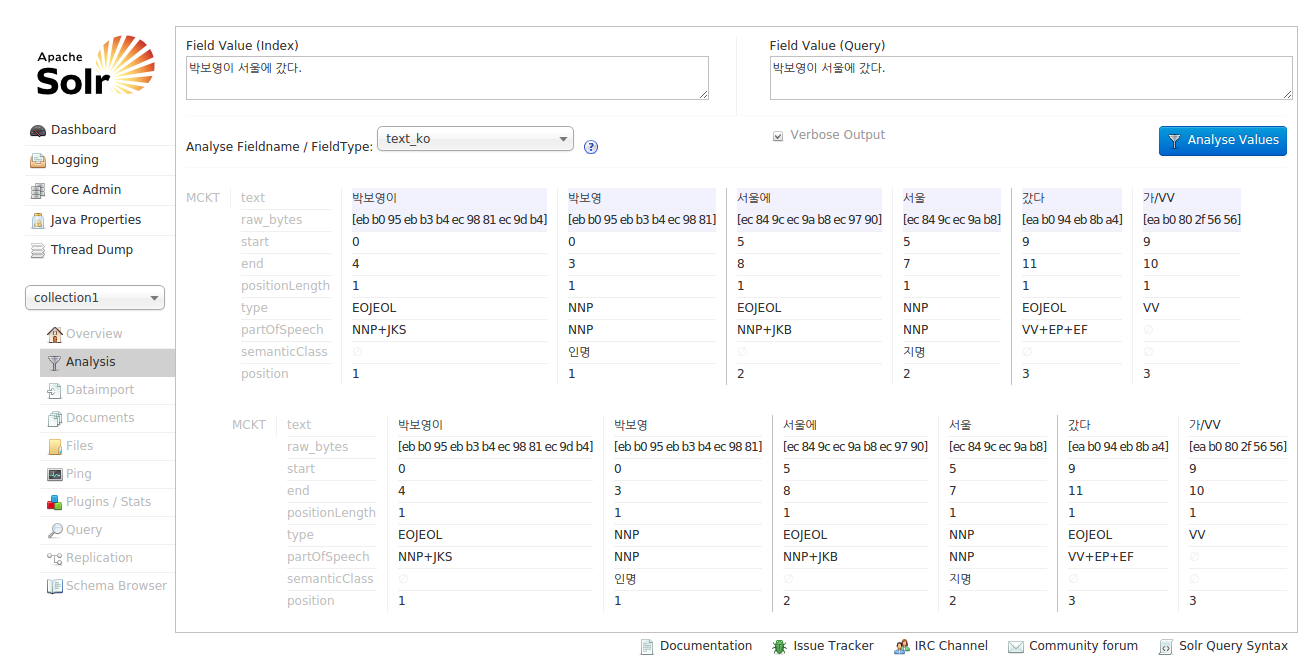
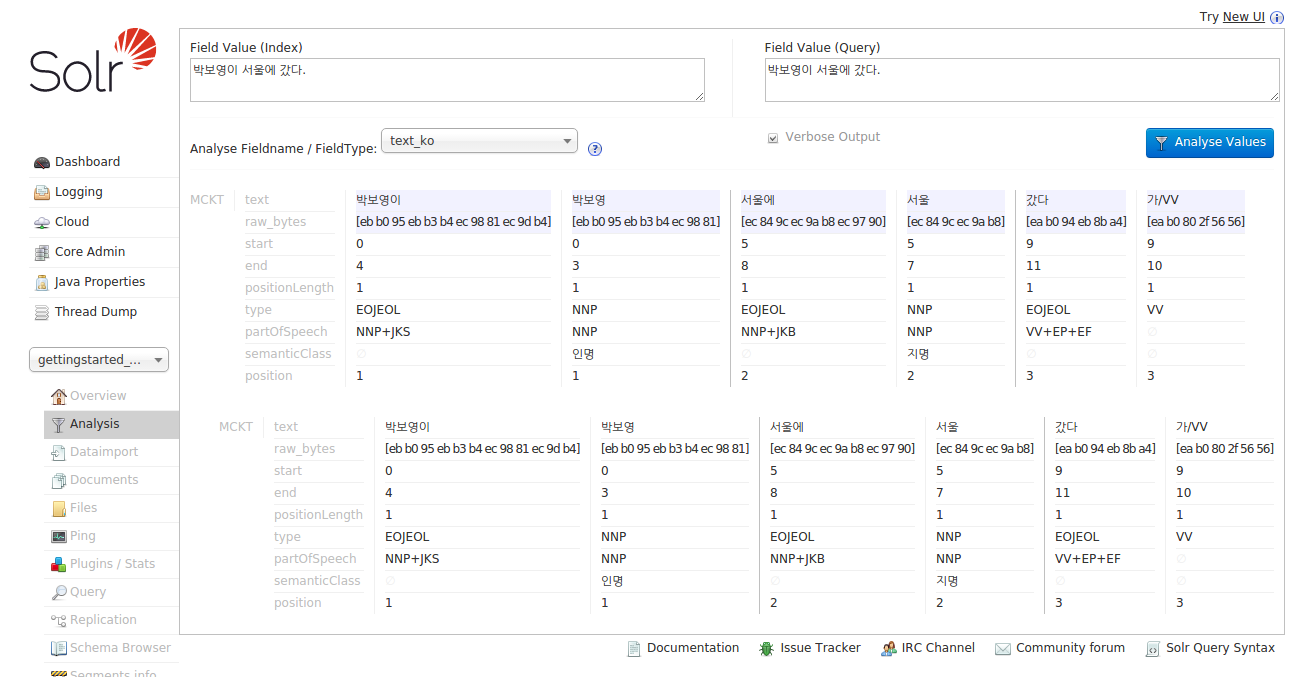
README.md solr-5.3.1에 맞게 수정

diff --git a/README.md b/README.md
@@ -24,7 +24,7 @@
 
         박보영이(NNP+JKS), 박보영(NNP), 서울에(NNP+JKB), 서울(NNP), 갔다(VV+EP+EF), 가/VV(VV)
 
-- Apache Lucene/Solr 4.9.X 버전 기준으로 작성되었습니다. (Apache Lucene/Solr 4.10.4에서 사용 가능)
+- Apache Lucene/Solr 5.3.1 버전 기준으로 작성되었습니다. (Apache Lucene/Solr 5.4.0에서 사용 가능)
 
 ## 설치
 
@@ -33,18 +33,19 @@
 mecab-ko와 mecab-ko-dic의 설치는 [mecab-ko-dic 설명](https://bitbucket.org/eunjeon/mecab-ko-dic)을 참조하시기 바랍니다.
 
 ### MeCab.jar와 libMeCab.so 설치
-Solr example(Solr with Jetty)의 사용을 기준으로 설명합니다.
+
+설치 문서는 [Solr Quick Start](http://lucene.apache.org/solr/quickstart.html) 문서 기준으로 작성되었습니다.
 
 [mecab-java-0.996.tar.gz](https://bitbucket.org/eunjeon/mecab-java/downloads/mecab-java-0.996.tar.gz) 를 다운받아 설치합니다.
 
     $ tar zxvf mecab-java-0.996.tar.gz
     $ cd mecab-java-0.996
     $ vi Makefile
-        # java path 설정.               ; INCLUDE=/usr/local/jdk1.6.0_41/include
+        # java path 설정.               ; INCLUDE=/usr/lib/jvm/java-7-oracle/include
         # OpenJDK 사용시 "-O1" 로 변경. ; $(CXX) -O1 -c -fpic $(TARGET)_wrap.cxx  $(INC)
         # "-cp ." 추가.                 ; $(JAVAC) -cp . test.java
     $ make
-    $ cp MeCab.jar [solr 디렉터리]/example/lib/ext # JNI 클래스는 System classpath에 위치해야 합니다. Jetty는 기본값으로 $jetty.home/lib/ext에 추가적인 jar를 넣을 수 있습니다.
+    $ cp MeCab.jar [solr 디렉터리]/server/lib/ext # JNI 클래스는 System classpath에 위치해야 합니다. Jetty는 기본값으로 $jetty.home/lib/ext에 추가적인 jar를 넣을 수 있습니다.
     $ sudo cp libMeCab.so /usr/local/lib
 
 __주의 사항__
@@ -56,13 +57,14 @@ __주의 사항__
 ### mecab-ko-lucene-analyzer 다운로드 및 설치
 [mecab-ko-lucene-analyzer 다운로드 페이지](https://bitbucket.org/eunjeon/mecab-ko-lucene-analyzer/downloads)에서 `mecab-ko-lucene-analyzer-XX.tar.gz`의 최신 버전을 다운 받아 압축을 풀면 두개의 jar파일이 있습니다. 
 
-- mecab-ko-mecab-loader-XX.jar: System classpath에 복사합니다. (ex: `[solr 디렉터리]/example/lib/ext`)
-- mecab-ko-lucene-analyzer-XX.jar: Solr 라이브러리 디렉터리에 설치합니다. (ex: `[solr 디렉터리]/example/solr/lib`)
+- mecab-ko-mecab-loader-XX.jar: System classpath에 복사합니다. (ex: `[solr 디렉터리]/server/lib/ext`)
+- mecab-ko-lucene-analyzer-XX.jar: Solr contrib 디렉터리에 디렉터리를 생성후 복사합니다. (ex: `[solr 디렉터리]/contrib/eunjeon/lib`)
 
 #### mecab-ko-lucene-analyzer 버전별 mecab-ko-dic, Lucene/Solr, elasticsearch 지원 버전
 
 | mecab-ko-lucene-analyzer | mecab-ko-dic                 | Lucene/Solr                 | elasticsearch               |
 | ------------------------ | ---------------------------- | --------------------------- | --------------------------- |
+| **0.18.x**               | mecab-ko-dic-2.0.0 or higher | Lucene/Solr 5.3.x or higher | [mecab-ko analysis for ElasticSearch](https://bitbucket.org/eunjeon/mecab-ko-lucene-analyzer/raw/master/elasticsearch-analysis-mecab-ko/) 참조 |
 | **0.17.x**               | mecab-ko-dic-2.0.0 or higher | Lucene/Solr 4.9.x - 4.10.x  | 1.3.x or higher             |
 | **0.16.x**               | mecab-ko-dic-1.6.0 - 1.6.1   | Lucene/Solr 4.9.x - 4.10.x  | 1.3.x or higher             |
 | **0.15.x**               | mecab-ko-dic-1.6.0 - 1.6.1   | Lucene/Solr 4.3.x - 4.8.x   | 0.90.x - 1.2.x              |
@@ -78,12 +80,12 @@ __주의 사항__
 ### solr 설정
 
 #### solrconfig.xml 설정
-`solrconfig.xml` 에 `mecab-ko-lucene-analyzer-XX.jar`가 있는 경로를 설정합니다.
+`server/solr/configsets/data_driven_schema_configs/conf/solrconfig.xml`에 `mecab-ko-lucene-analyzer-XX.jar`가 있는 경로를 설정합니다.
 
-    <lib dir="../lib" regex=".*\.jar" />
+    <lib dir="${solr.install.dir:../../../..}/contrib/eunjeon/lib" regex=".*\.jar" />
 
-#### schema.xml 설정
-`schema.xml` 에 `fieldType` 을 설정합니다.
+#### managed-schema 설정
+`server/solr/configsets/data_driven_schema_configs/conf/managed-schema` 에 `fieldType` 을 설정합니다.
 
 ##### Tokenizer 옵션 속성
 
@@ -93,10 +95,11 @@ __주의 사항__
 | **compoundNounMinLength**         | 분해를 해야하는 복합명사의 최소 길이. 기본 값은 3                                                                                      |
 | **useAdjectiveAndVerbOriginForm** | 동사와 형용사 원형을 사용하여 검색할지 여부. 디폴트 값은 true                                                                          |
 
-##### schema.xml 설정 예
+##### managed-schema 설정 예
 ###### query에서는 복합명사 분해를 하지 않는 경우
 
     <!-- Korean -->
+    <dynamicField name="*_txt_ko" type="text_ko" indexed="true" stored="true"/>
     <fieldType name="text_ko" class="solr.TextField" positionIncrementGap="100">
       <analyzer type="index">
         <tokenizer class="org.bitbucket.eunjeon.mecab_ko_lucene_analyzer.StandardTokenizerFactory"/>
@@ -112,16 +115,19 @@ __주의 사항__
          분해를 하는 복합명사의 최소 길이를 뜻하며 기본 값은 3입니다. 이 경우, 길이가 3미만인 복합명사는 분해하지 않습니다.
     -->
     <!-- Korean -->
+    <dynamicField name="*_txt_ko" type="text_ko" indexed="true" stored="true"/>
     <fieldType name="text_ko" class="solr.TextField" positionIncrementGap="100">
-      <analyzer>
+      <analyzer> 
         <tokenizer class="org.bitbucket.eunjeon.mecab_ko_lucene_analyzer.StandardTokenizerFactory" compoundNounMinLength="3"/>
       </analyzer>
     </fieldType>
+
 
 mecab-ko-dic을 디폴트 경로\(`/usr/local/lib/mecab/dic/mecab-ko-dic`\)에 설치하지 않은 경우에는 `mecabArgs` 속성을 사용하여 사전 경로를 지정해야 합니다.
 mecab 다른 옵션은 다음의 URL을 참조하십시오. http://taku910.github.io/mecab/mecab.html
 
     <!-- Korean -->
+    <dynamicField name="*_txt_ko" type="text_ko" indexed="true" stored="true"/>
     <fieldType name="text_ko" class="solr.TextField" positionIncrementGap="100">
       <analyzer>
         <tokenizer class="org.bitbucket.eunjeon.mecab_ko_lucene_analyzer.StandardTokenizerFactory" compoundNounMinLength="3" mecabArgs="-d /my/mecab-ko-dic/directory"/>
@@ -131,7 +137,7 @@ mecab 다른 옵션은 다음의 URL을 참조하십시오. http://taku910.githu
 ### solr 실행
 `libMeCab.so` 파일이 있는 라이브러리 경로를 지정해 주면서 solr를 실행합니다.
 
-    $ java -Djava.library.path="/usr/local/lib" -jar start.jar
+    $ ./bin/solr start -e cloud -noprompt -Djava.library.path=/usr/local/lib
 
 ### 분석 결과
 ![Alt 박보영이 서울에 갔다.](solr_demo.png)
